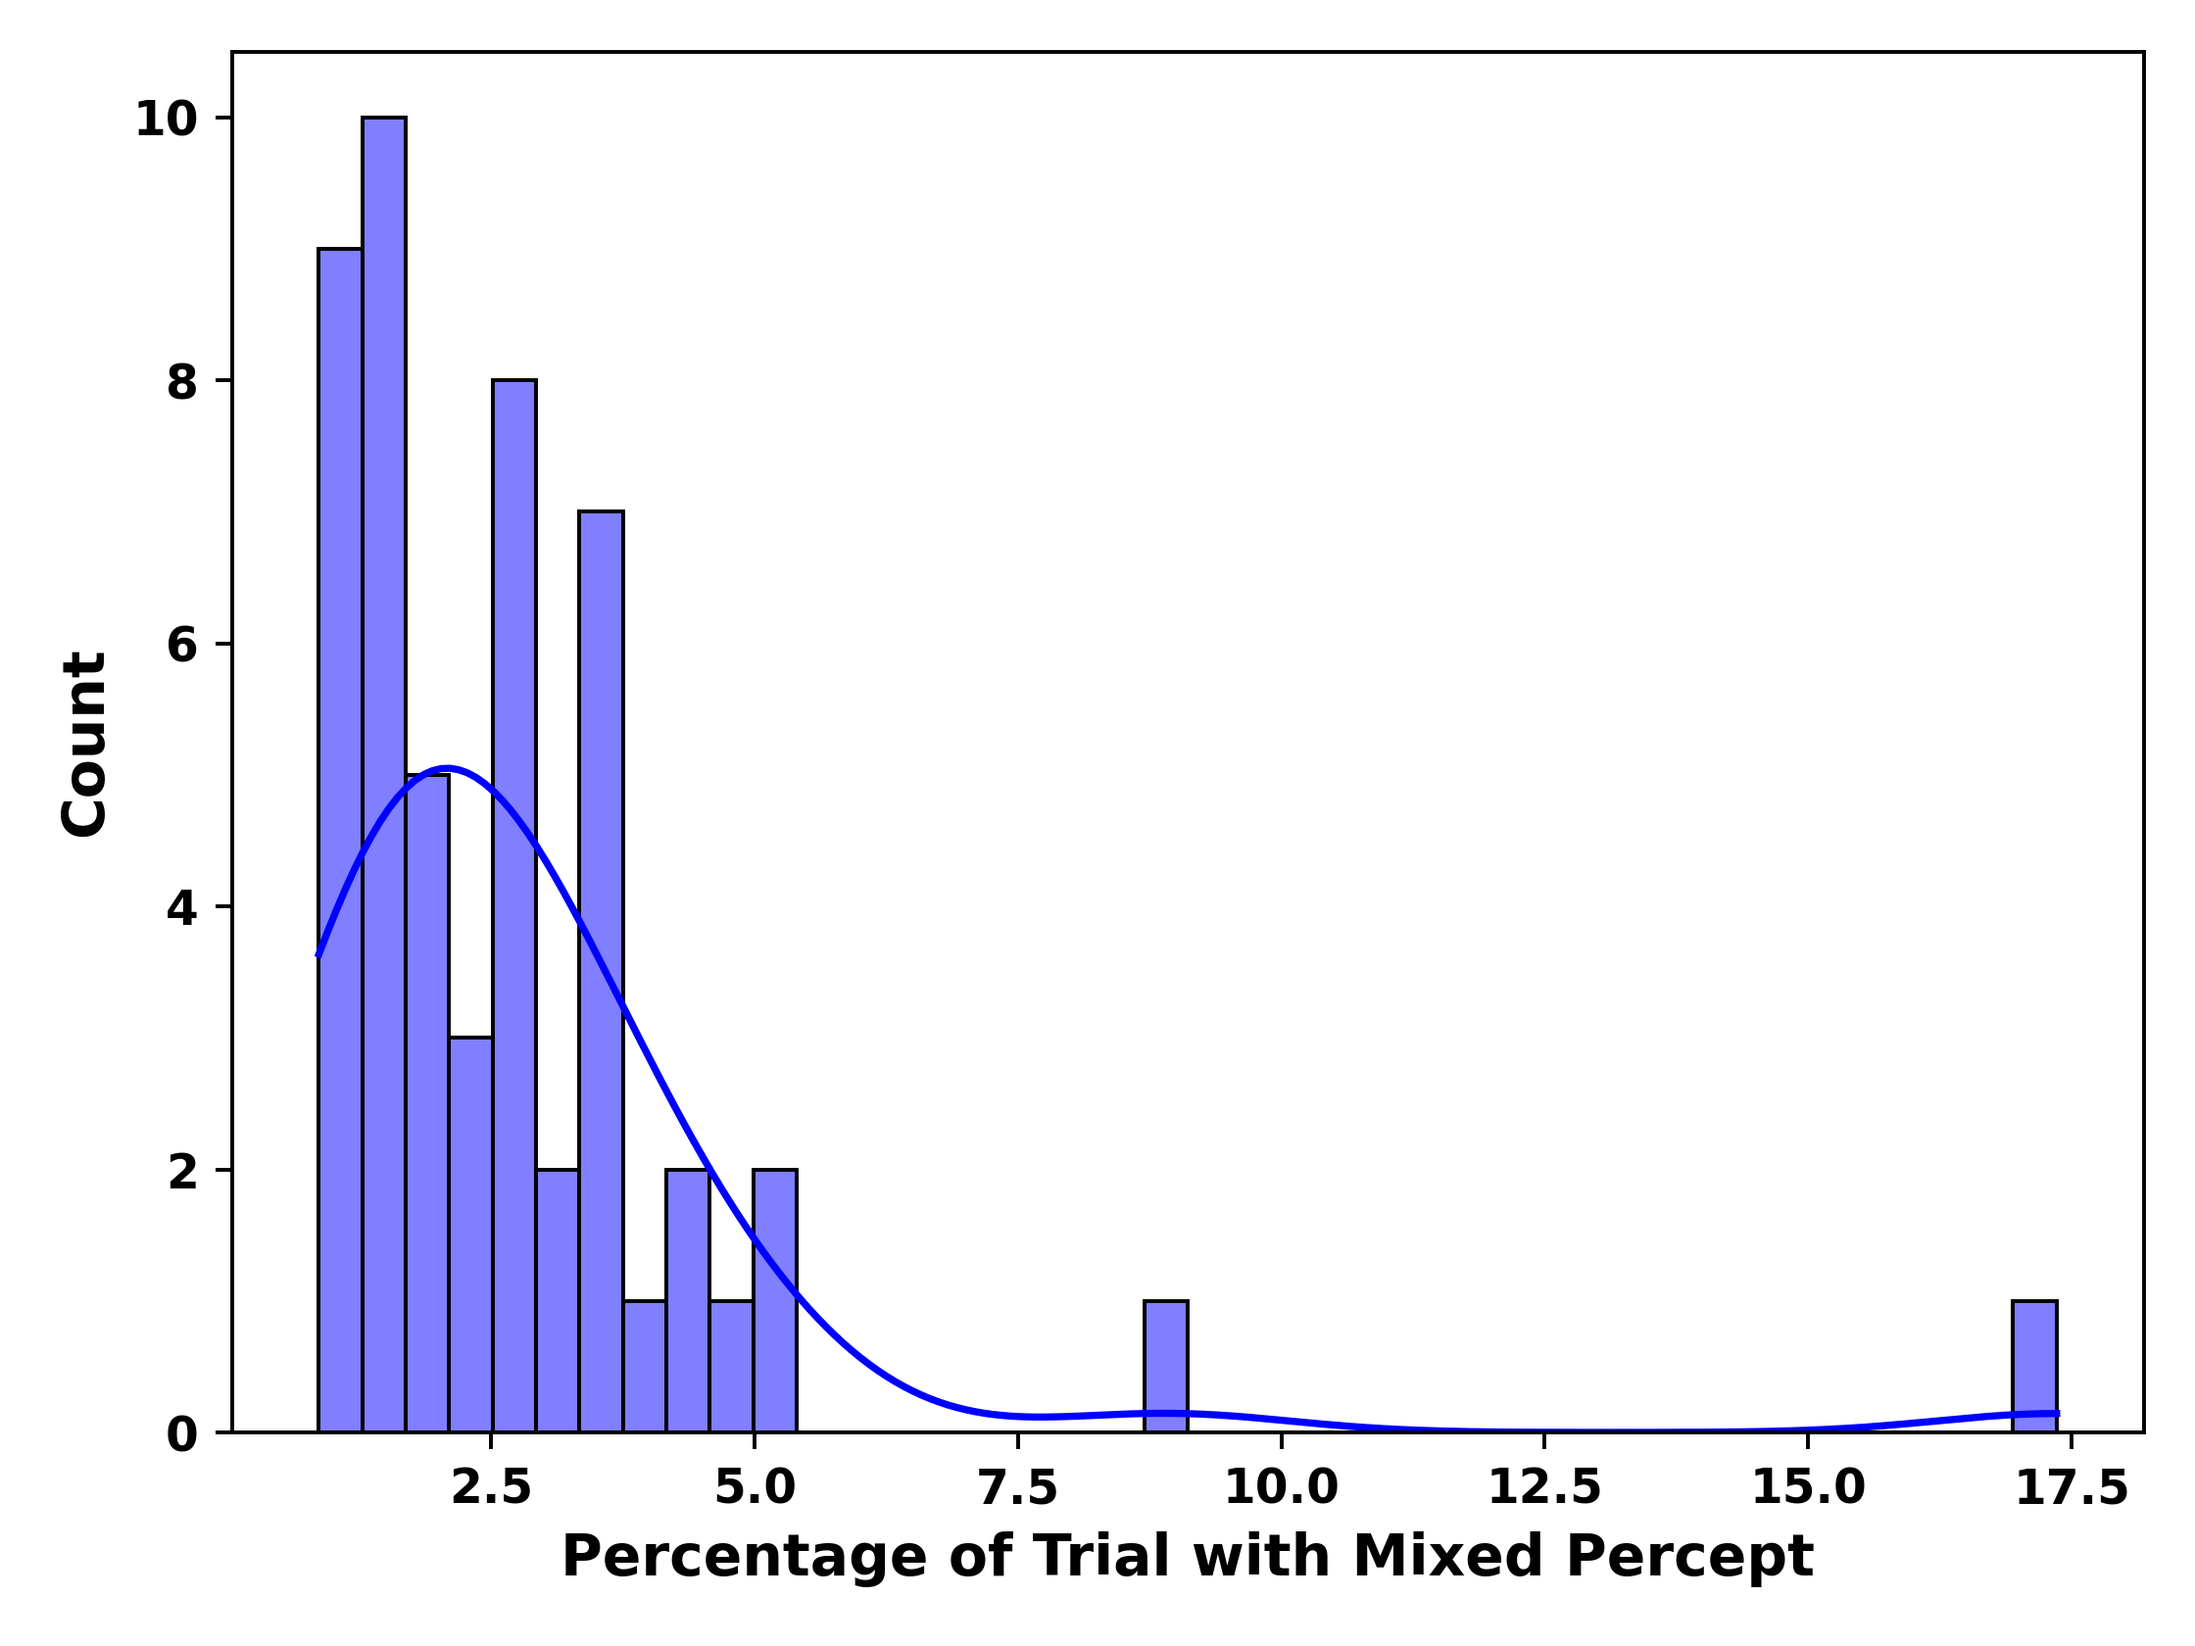
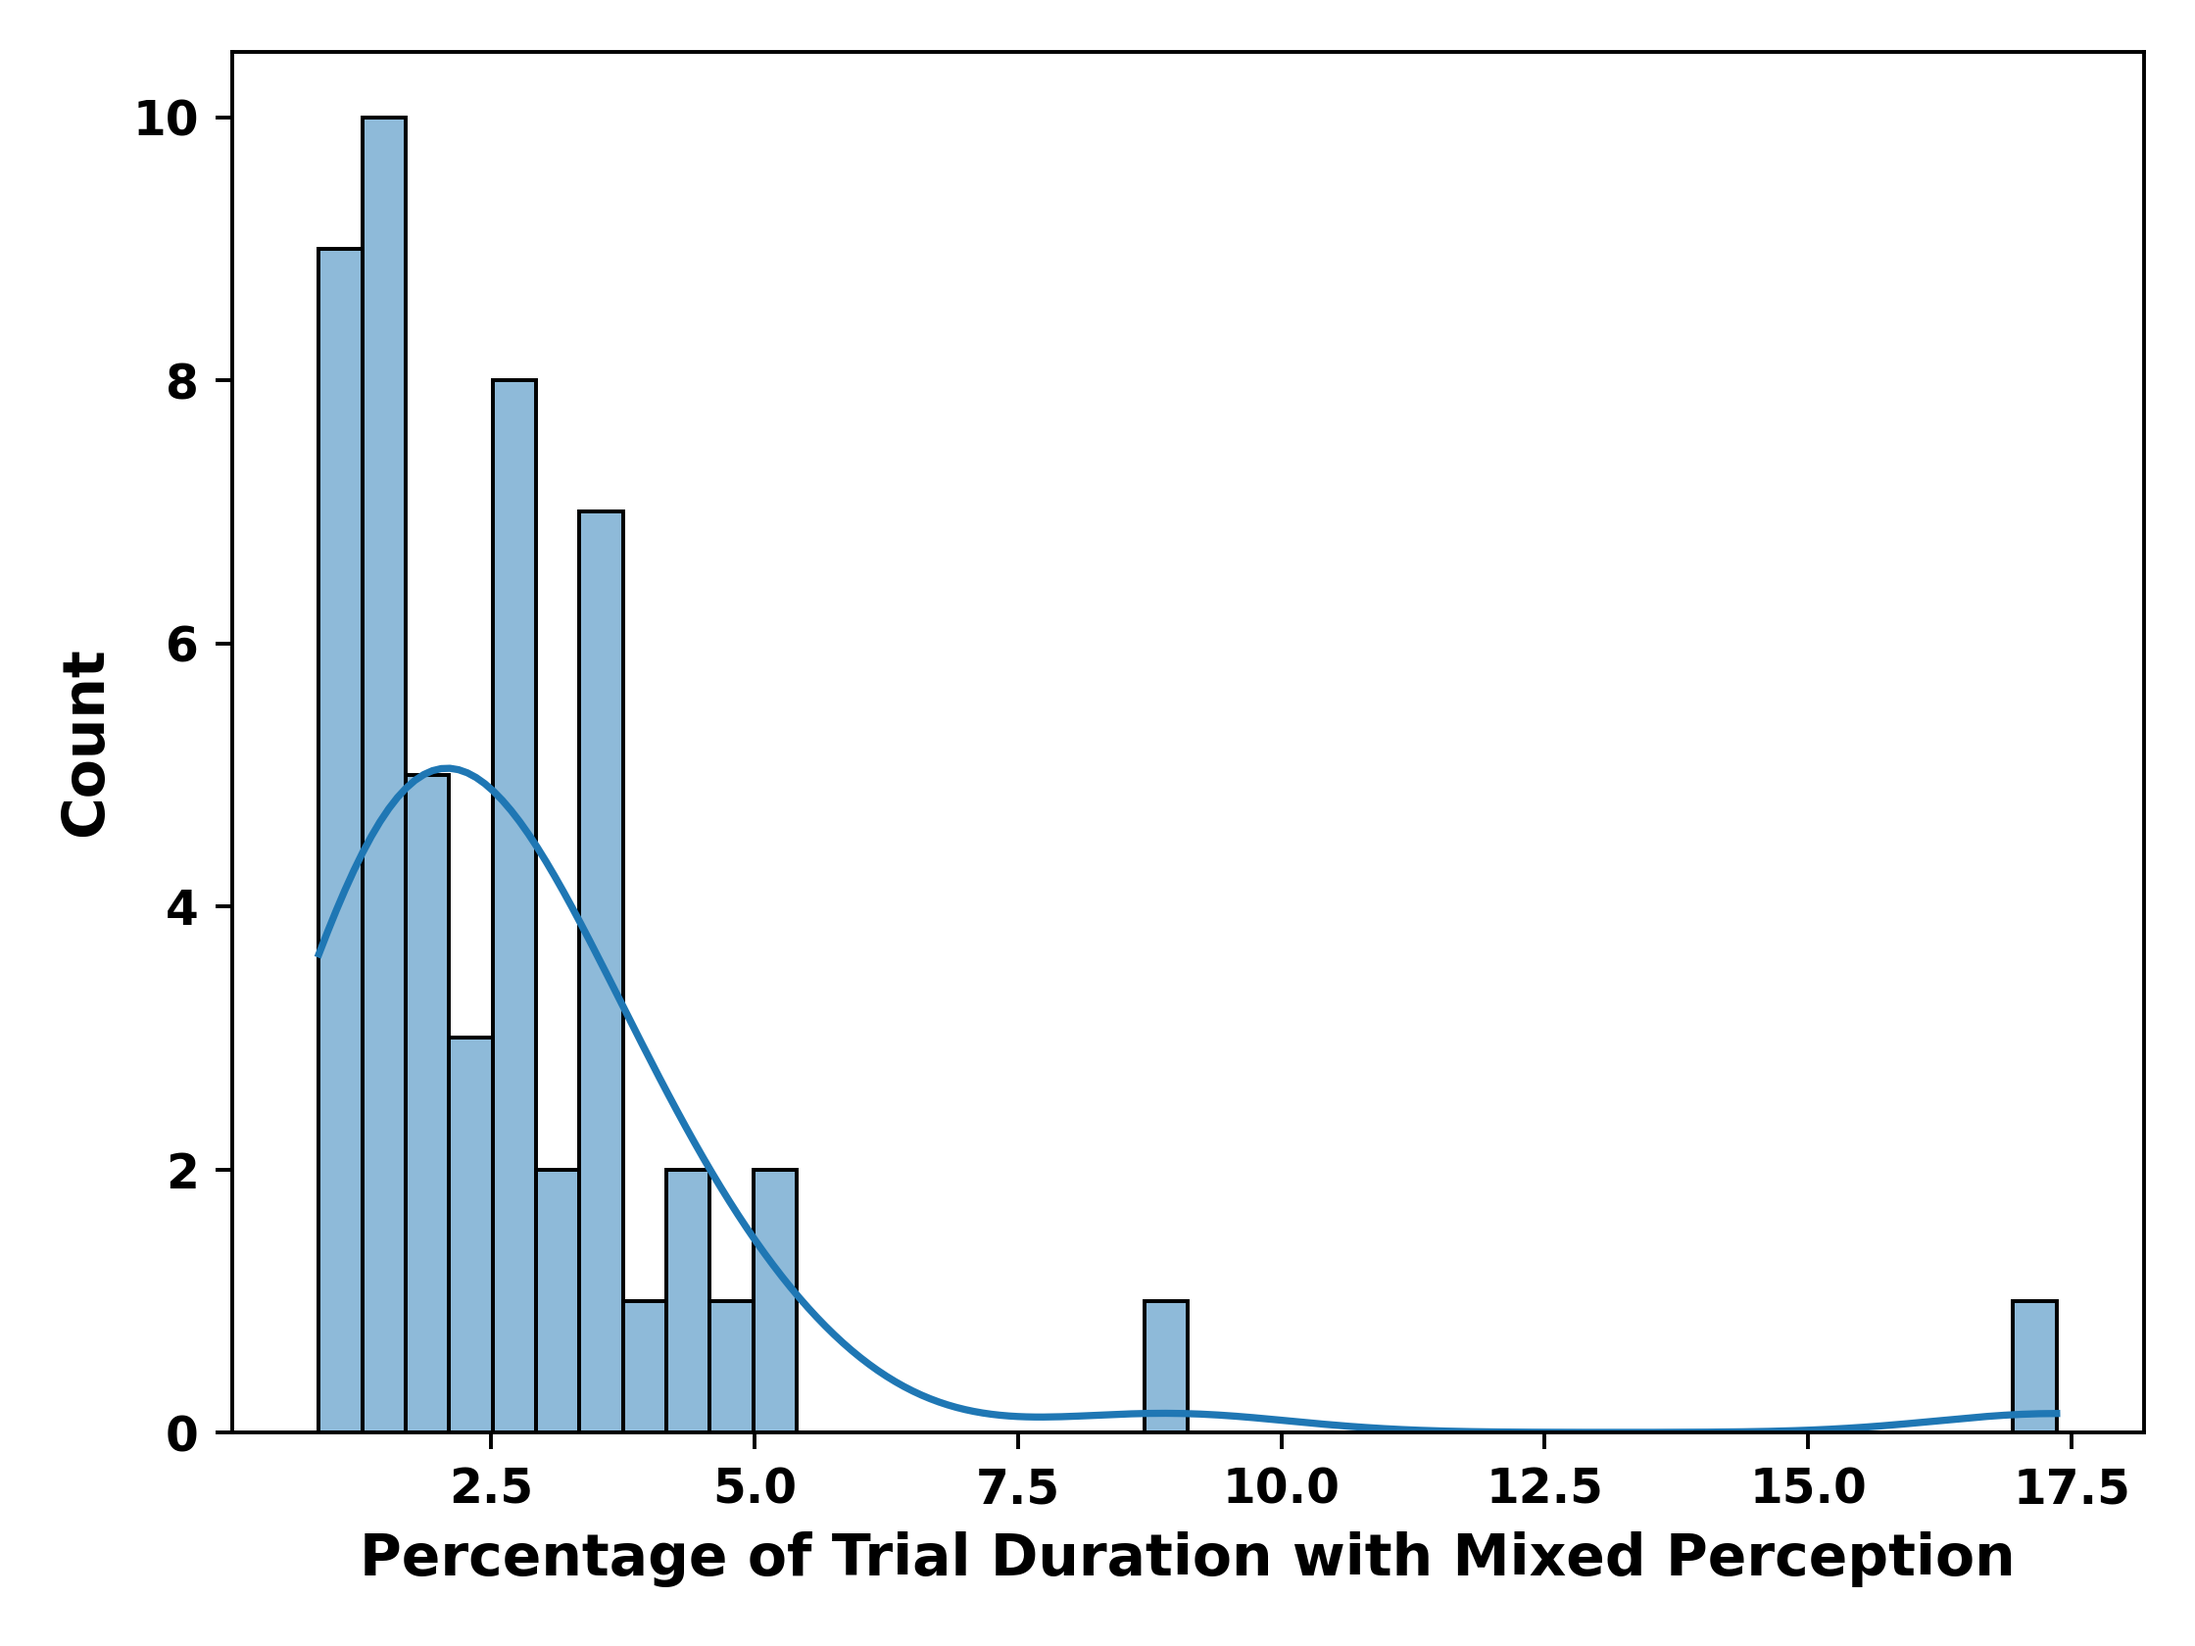
ADD: mixed percepts

diff --git a/mixed_time_plot.py b/mixed_time_plot.py
@@ -2,15 +2,18 @@ import pandas as pd
 import numpy as np
 import seaborn as sns
 import matplotlib.pyplot as plt
-
+"""
+the mean percentage is 2.83%
+"""
 def hist_mixed():
     df = pd.read_csv('mixed_percentage_per_trial.txt', sep='\t', header=None)
+    print(df.mean())
     df.columns = ['mixed_time']
-    sns.histplot(df['mixed_time'], bins=40, kde=True, color='blue')
+    sns.histplot(df['mixed_time'], bins=40, kde=True, color='tab:blue')
     # custom_xticks = range(0, int(max(df['mixed_time'])), 20)  # Adjust range and step size as needed
     # plt.xticks(custom_xticks)
     # plt.title('Distribution of mixed_time')   
-    plt.xlabel('Percentage of Trial with Mixed Percept',fontweight='bold',fontsize=12)
+    plt.xlabel('Percentage of Trial Duration with Mixed Perception',fontweight='bold',fontsize=12)
     plt.ylabel('Count',fontweight='bold',fontsize=12)
     plt.xticks(weight='bold')
     plt.yticks(weight='bold')
